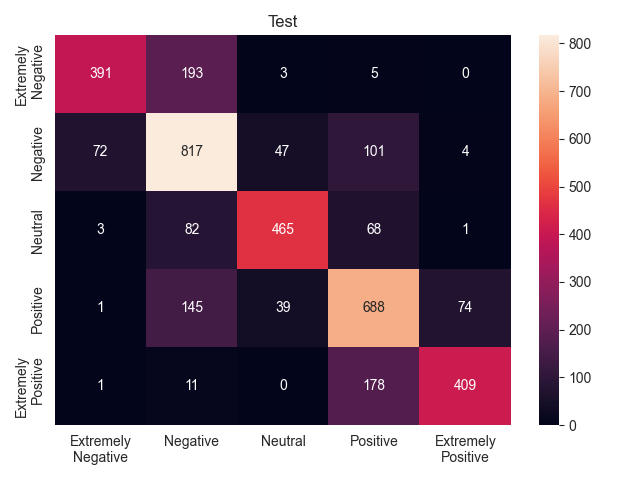
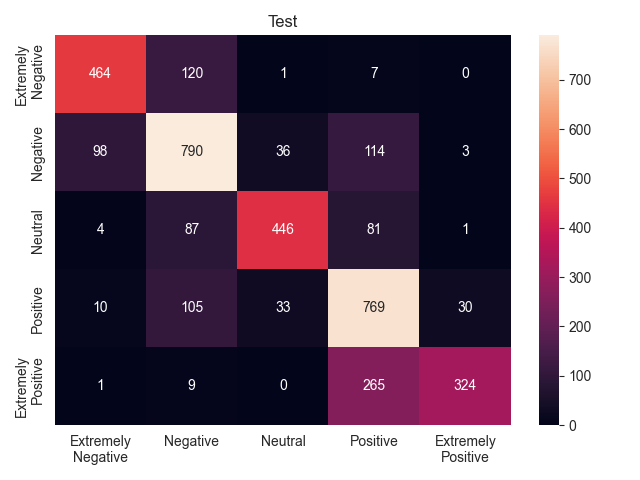
Added categorical instead

diff --git a/src/util/generation.py b/src/util/generation.py
@@ -156,7 +156,7 @@ class Generator:
         hp_learning_rate = hyperparameters.Choice('learning_rate', values=[1e-2, 1e-3, 1e-4, 1e-5])
         model.compile(
             optimizer=keras.optimizers.Adam(learning_rate=hp_learning_rate),
-            loss=keras.losses.BinaryCrossentropy(from_logits=True),
+            loss=keras.losses.CategoricalCrossentropy(from_logits=True),
             metrics=['accuracy']
         )
 
@@ -201,7 +201,7 @@ class Generator:
         hp_learning_rate = hyperparameters.Choice('learning_rate', values=[1e-2, 1e-3, 1e-4, 1e-5])
         model.compile(
             optimizer=keras.optimizers.Adam(learning_rate=hp_learning_rate),
-            loss=keras.losses.BinaryCrossentropy(from_logits=True),
+            loss=keras.losses.CategoricalCrossentropy(from_logits=True),
             metrics=['accuracy']
         )
 

diff --git a/src/scripts/run_bert.py b/src/scripts/run_bert.py
@@ -38,7 +38,7 @@ cp_callback = tf.keras.callbacks.ModelCheckpoint(
 )
 
 # Compile the model
-model.compile(loss=tf.keras.losses.BinaryCrossentropy(from_logits=True), optimizer=tf.keras.optimizers.Adam(learning_rate=2e-5), metrics=['accuracy'])
+model.compile(loss=tf.keras.losses.CategoricalCrossentropy(from_logits=True), optimizer=tf.keras.optimizers.Adam(learning_rate=2e-5), metrics=['accuracy'])
 
 # Fit the model and save it
 model.fit(x=train_x.values(), y=train_y, epochs=5, batch_size=8, callbacks=[cp_callback], validation_split=0.10)

diff --git a/src/scripts/run_mlp.py b/src/scripts/run_mlp.py
@@ -24,7 +24,7 @@ train_x, train_y, test_x, test_y = get_train_test_sets()
 tuner = kt.Hyperband(
     Generator.generate_mlp_model,
     objective='val_accuracy',
-    max_epochs=5,
+    max_epochs=10,
     factor=2,
     directory=PATH_TO_MODEL_MLP_HYPERPARAMETER,
     project_name=HYPER_PARAMETER_PROJECT_NAME
